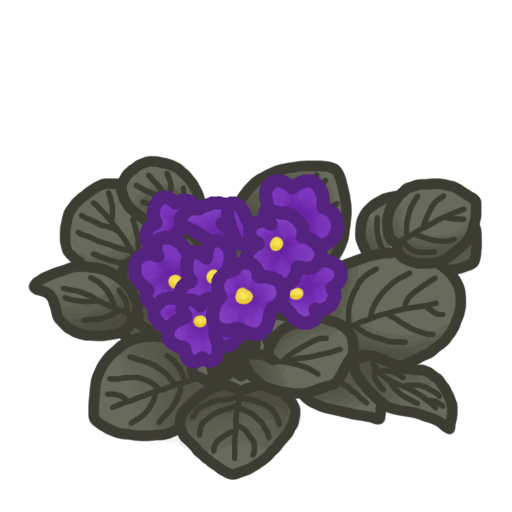
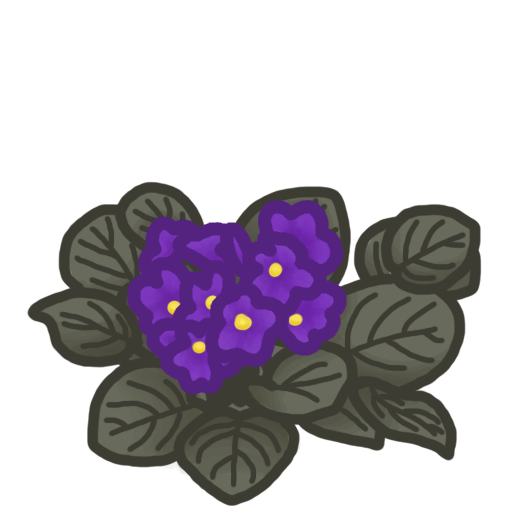
Replace the African violet with a version that sits lower in the pot
Same file name, so ART_VERSION in biome.js is bumped to 3 (and page
versions to v=17) to make browsers fetch the new drawing.

Claude-Session: https://claude.ai/code/session_01AKYuNggPa5w9iRuLumobCr

Changed region(s): [[0.0312, 0.2812, 0.9688, 1.0]]

diff --git a/profile.html b/profile.html
@@ -6,7 +6,7 @@
   <title>Profile — byome</title>
   <link rel="preconnect" href="https://fonts.googleapis.com" />
   <link href="https://fonts.googleapis.com/css2?family=Fraunces:wght@500;600&family=Work+Sans:wght@400;500;600&display=swap" rel="stylesheet" />
-  <link rel="stylesheet" href="style.css?v=16" />
+  <link rel="stylesheet" href="style.css?v=17" />
 </head>
 <body>
   <header class="site-header">
@@ -59,12 +59,12 @@
     <section id="profile-posts" class="feed"><p class="feed-empty">Loading...</p></section>
   </main>
   <script src="https://cdn.jsdelivr.net/npm/@supabase/supabase-js@2"></script>
-  <script src="supabase-client.js?v=16"></script>
-  <script src="profile-fields.js?v=16"></script>
-  <script src="nav-menu.js?v=16"></script>
-  <script src="edit-forms.js?v=16"></script>
-  <script src="biome.js?v=16"></script>
-  <script src="report.js?v=16"></script>
-  <script src="profile.js?v=16"></script>
+  <script src="supabase-client.js?v=17"></script>
+  <script src="profile-fields.js?v=17"></script>
+  <script src="nav-menu.js?v=17"></script>
+  <script src="edit-forms.js?v=17"></script>
+  <script src="biome.js?v=17"></script>
+  <script src="report.js?v=17"></script>
+  <script src="profile.js?v=17"></script>
 </body>
 </html>

diff --git a/reviews.html b/reviews.html
@@ -6,7 +6,7 @@
   <title>Reviews — byome</title>
   <link rel="preconnect" href="https://fonts.googleapis.com" />
   <link href="https://fonts.googleapis.com/css2?family=Fraunces:wght@500;600&family=Work+Sans:wght@400;500;600&display=swap" rel="stylesheet" />
-  <link rel="stylesheet" href="style.css?v=16" />
+  <link rel="stylesheet" href="style.css?v=17" />
 </head>
 <body>
   <header class="site-header">
@@ -104,11 +104,11 @@
     </section>
   </main>
   <script src="https://cdn.jsdelivr.net/npm/@supabase/supabase-js@2"></script>
-  <script src="supabase-client.js?v=16"></script>
-  <script src="profile-fields.js?v=16"></script>
-  <script src="nav-menu.js?v=16"></script>
-  <script src="edit-forms.js?v=16"></script>
-  <script src="report.js?v=16"></script>
-  <script src="reviews.js?v=16"></script>
+  <script src="supabase-client.js?v=17"></script>
+  <script src="profile-fields.js?v=17"></script>
+  <script src="nav-menu.js?v=17"></script>
+  <script src="edit-forms.js?v=17"></script>
+  <script src="report.js?v=17"></script>
+  <script src="reviews.js?v=17"></script>
 </body>
 </html>

diff --git a/feed.html b/feed.html
@@ -7,7 +7,7 @@
 
   <link rel="preconnect" href="https://fonts.googleapis.com" />
   <link href="https://fonts.googleapis.com/css2?family=Fraunces:wght@500;600&family=Work+Sans:wght@400;500;600&display=swap" rel="stylesheet" />
-  <link rel="stylesheet" href="style.css?v=16" />
+  <link rel="stylesheet" href="style.css?v=17" />
 </head>
 <body>
 
@@ -69,11 +69,11 @@
   </main>
 
   <script src="https://cdn.jsdelivr.net/npm/@supabase/supabase-js@2"></script>
-  <script src="supabase-client.js?v=16"></script>
-  <script src="profile-fields.js?v=16"></script>
-  <script src="nav-menu.js?v=16"></script>
-  <script src="edit-forms.js?v=16"></script>
-  <script src="report.js?v=16"></script>
-  <script src="feed.js?v=16"></script>
+  <script src="supabase-client.js?v=17"></script>
+  <script src="profile-fields.js?v=17"></script>
+  <script src="nav-menu.js?v=17"></script>
+  <script src="edit-forms.js?v=17"></script>
+  <script src="report.js?v=17"></script>
+  <script src="feed.js?v=17"></script>
 </body>
 </html>

diff --git a/moderate-products.html b/moderate-products.html
@@ -7,7 +7,7 @@
 
   <link rel="preconnect" href="https://fonts.googleapis.com" />
   <link href="https://fonts.googleapis.com/css2?family=Fraunces:wght@500;600&family=Work+Sans:wght@400;500;600&display=swap" rel="stylesheet" />
-  <link rel="stylesheet" href="style.css?v=16" />
+  <link rel="stylesheet" href="style.css?v=17" />
 </head>
 <body>
 
@@ -53,10 +53,10 @@
   </main>
 
   <script src="https://cdn.jsdelivr.net/npm/@supabase/supabase-js@2"></script>
-  <script src="supabase-client.js?v=16"></script>
-  <script src="profile-fields.js?v=16"></script>
-  <script src="nav-menu.js?v=16"></script>
-  <script src="product-match.js?v=16"></script>
-  <script src="moderate-products.js?v=16"></script>
+  <script src="supabase-client.js?v=17"></script>
+  <script src="profile-fields.js?v=17"></script>
+  <script src="nav-menu.js?v=17"></script>
+  <script src="product-match.js?v=17"></script>
+  <script src="moderate-products.js?v=17"></script>
 </body>
 </html>

diff --git a/reset-password.html b/reset-password.html
@@ -7,7 +7,7 @@
 
   <link rel="preconnect" href="https://fonts.googleapis.com" />
   <link href="https://fonts.googleapis.com/css2?family=Fraunces:wght@500;600&family=Work+Sans:wght@400;500;600&display=swap" rel="stylesheet" />
-  <link rel="stylesheet" href="style.css?v=16" />
+  <link rel="stylesheet" href="style.css?v=17" />
   <!-- Note what the email link said before Supabase tidies the address bar -->
   <script>window.resetLinkParams = window.location.hash.slice(1) + "&" + window.location.search.slice(1);</script>
 </head>
@@ -66,8 +66,8 @@
   </main>
 
   <script src="https://cdn.jsdelivr.net/npm/@supabase/supabase-js@2"></script>
-  <script src="supabase-client.js?v=16"></script>
-  <script src="nav-menu.js?v=16"></script>
-  <script src="reset-password.js?v=16"></script>
+  <script src="supabase-client.js?v=17"></script>
+  <script src="nav-menu.js?v=17"></script>
+  <script src="reset-password.js?v=17"></script>
 </body>
 </html>

diff --git a/edit-profile.html b/edit-profile.html
@@ -6,7 +6,7 @@
   <title>Edit profile — byome</title>
   <link rel="preconnect" href="https://fonts.googleapis.com" />
   <link href="https://fonts.googleapis.com/css2?family=Fraunces:wght@500;600&family=Work+Sans:wght@400;500;600&display=swap" rel="stylesheet" />
-  <link rel="stylesheet" href="style.css?v=16" />
+  <link rel="stylesheet" href="style.css?v=17" />
 </head>
 <body>
   <header class="site-header">
@@ -78,9 +78,9 @@
   </main>
 
   <script src="https://cdn.jsdelivr.net/npm/@supabase/supabase-js@2"></script>
-  <script src="supabase-client.js?v=16"></script>
-  <script src="profile-fields.js?v=16"></script>
-  <script src="nav-menu.js?v=16"></script>
-  <script src="edit-profile.js?v=16"></script>
+  <script src="supabase-client.js?v=17"></script>
+  <script src="profile-fields.js?v=17"></script>
+  <script src="nav-menu.js?v=17"></script>
+  <script src="edit-profile.js?v=17"></script>
 </body>
 </html>

diff --git a/signup.html b/signup.html
@@ -7,7 +7,7 @@
 
   <link rel="preconnect" href="https://fonts.googleapis.com" />
   <link href="https://fonts.googleapis.com/css2?family=Fraunces:wght@500;600&family=Work+Sans:wght@400;500;600&display=swap" rel="stylesheet" />
-  <link rel="stylesheet" href="style.css?v=16" />
+  <link rel="stylesheet" href="style.css?v=17" />
 </head>
 <body>
 
@@ -63,10 +63,10 @@
   <!-- Supabase's own code library, loaded from their servers -->
   <script src="https://cdn.jsdelivr.net/npm/@supabase/supabase-js@2"></script>
   <!-- Our shared connection setup -->
-  <script src="supabase-client.js?v=16"></script>
+  <script src="supabase-client.js?v=17"></script>
   <!-- Hamburger menu behavior -->
-  <script src="nav-menu.js?v=16"></script>
+  <script src="nav-menu.js?v=17"></script>
   <!-- The logic specific to this page -->
-  <script src="signup.js?v=16"></script>
+  <script src="signup.js?v=17"></script>
 </body>
 </html>

diff --git a/suggest-product.html b/suggest-product.html
@@ -7,7 +7,7 @@
 
   <link rel="preconnect" href="https://fonts.googleapis.com" />
   <link href="https://fonts.googleapis.com/css2?family=Fraunces:wght@500;600&family=Work+Sans:wght@400;500;600&display=swap" rel="stylesheet" />
-  <link rel="stylesheet" href="style.css?v=16" />
+  <link rel="stylesheet" href="style.css?v=17" />
 </head>
 <body>
 
@@ -82,9 +82,9 @@
   </main>
 
   <script src="https://cdn.jsdelivr.net/npm/@supabase/supabase-js@2"></script>
-  <script src="supabase-client.js?v=16"></script>
-  <script src="nav-menu.js?v=16"></script>
-  <script src="product-match.js?v=16"></script>
-  <script src="suggest-product.js?v=16"></script>
+  <script src="supabase-client.js?v=17"></script>
+  <script src="nav-menu.js?v=17"></script>
+  <script src="product-match.js?v=17"></script>
+  <script src="suggest-product.js?v=17"></script>
 </body>
 </html>

diff --git a/notifications.html b/notifications.html
@@ -6,7 +6,7 @@
   <title>Notifications — byome</title>
   <link rel="preconnect" href="https://fonts.googleapis.com" />
   <link href="https://fonts.googleapis.com/css2?family=Fraunces:wght@500;600&family=Work+Sans:wght@400;500;600&display=swap" rel="stylesheet" />
-  <link rel="stylesheet" href="style.css?v=16" />
+  <link rel="stylesheet" href="style.css?v=17" />
 </head>
 <body>
   <header class="site-header">
@@ -35,8 +35,8 @@
     </section>
   </main>
   <script src="https://cdn.jsdelivr.net/npm/@supabase/supabase-js@2"></script>
-  <script src="supabase-client.js?v=16"></script>
-  <script src="nav-menu.js?v=16"></script>
-  <script src="notifications.js?v=16"></script>
+  <script src="supabase-client.js?v=17"></script>
+  <script src="nav-menu.js?v=17"></script>
+  <script src="notifications.js?v=17"></script>
 </body>
 </html>

diff --git a/biome-shop.html b/biome-shop.html
@@ -7,7 +7,7 @@
 
   <link rel="preconnect" href="https://fonts.googleapis.com" />
   <link href="https://fonts.googleapis.com/css2?family=Fraunces:wght@500;600&family=Work+Sans:wght@400;500;600&display=swap" rel="stylesheet" />
-  <link rel="stylesheet" href="style.css?v=16" />
+  <link rel="stylesheet" href="style.css?v=17" />
 </head>
 <body>
 
@@ -41,9 +41,9 @@
   </main>
 
   <script src="https://cdn.jsdelivr.net/npm/@supabase/supabase-js@2"></script>
-  <script src="supabase-client.js?v=16"></script>
-  <script src="nav-menu.js?v=16"></script>
-  <script src="biome.js?v=16"></script>
-  <script src="biome-shop.js?v=16"></script>
+  <script src="supabase-client.js?v=17"></script>
+  <script src="nav-menu.js?v=17"></script>
+  <script src="biome.js?v=17"></script>
+  <script src="biome-shop.js?v=17"></script>
 </body>
 </html>

diff --git a/login.html b/login.html
@@ -7,7 +7,7 @@
 
   <link rel="preconnect" href="https://fonts.googleapis.com" />
   <link href="https://fonts.googleapis.com/css2?family=Fraunces:wght@500;600&family=Work+Sans:wght@400;500;600&display=swap" rel="stylesheet" />
-  <link rel="stylesheet" href="style.css?v=16" />
+  <link rel="stylesheet" href="style.css?v=17" />
 </head>
 <body>
 
@@ -56,8 +56,8 @@
   </main>
 
   <script src="https://cdn.jsdelivr.net/npm/@supabase/supabase-js@2"></script>
-  <script src="supabase-client.js?v=16"></script>
-  <script src="nav-menu.js?v=16"></script>
-  <script src="login.js?v=16"></script>
+  <script src="supabase-client.js?v=17"></script>
+  <script src="nav-menu.js?v=17"></script>
+  <script src="login.js?v=17"></script>
 </body>
 </html>

diff --git a/index.html b/index.html
@@ -10,7 +10,7 @@
   <link href="https://fonts.googleapis.com/css2?family=Fraunces:wght@500;600&family=Work+Sans:wght@400;500;600&display=swap" rel="stylesheet" />
 
   <!-- Our own stylesheet, kept in a separate file -->
-  <link rel="stylesheet" href="style.css?v=16" />
+  <link rel="stylesheet" href="style.css?v=17" />
 </head>
 <body>
 
@@ -77,7 +77,7 @@
   </footer>
 
   <script src="https://cdn.jsdelivr.net/npm/@supabase/supabase-js@2"></script>
-  <script src="supabase-client.js?v=16"></script>
-  <script src="nav-menu.js?v=16"></script>
+  <script src="supabase-client.js?v=17"></script>
+  <script src="nav-menu.js?v=17"></script>
 </body>
 </html>
